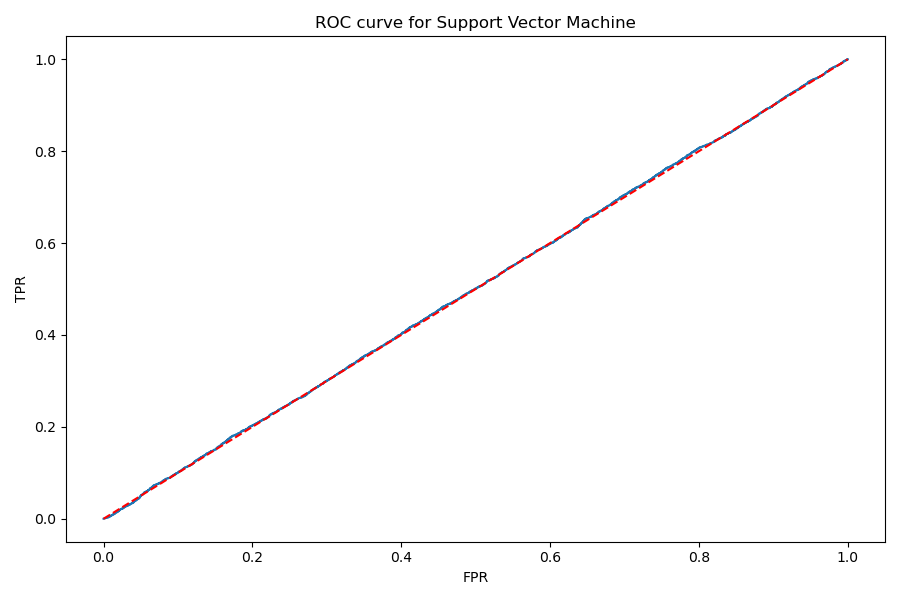
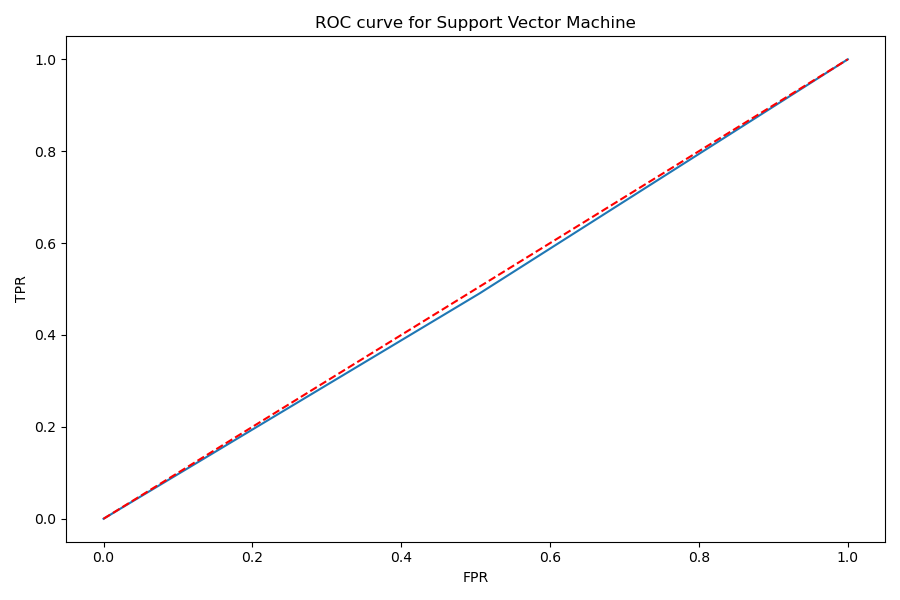
feature selection verbessert, SVM + hyperparameter

diff --git a/FoDS_Project_code.py b/FoDS_Project_code.py
@@ -19,8 +19,10 @@ from sklearn import svm
 
 from sklearn.svm import LinearSVC
 from sklearn.calibration import CalibratedClassifierCV
-
-
+from sklearn.linear_model import LassoCV
+from sklearn.svm import SVC
+from sklearn.model_selection import RandomizedSearchCV
+from scipy.stats import uniform
 
 import warnings
 warnings.filterwarnings("ignore")
@@ -82,27 +84,18 @@ X_train, X_test, y_train, y_test = (
     np.array(y_test),
 )
 
-## feature selection with Lasso --> alles 0, weil kein feature wichtig ist --> nicht richtig gemacht, nochmals machen mit dem Tutorial von
-# Woche 10!!! --> hier werden nur die coef angeschaut und die feature selection nicht wirklich angewendet!
+## feature selection with Lasso --> alles 0, weil kein feature wichtig ist
+lasso_cv = LassoCV(cv=5, random_state=0)
+lasso_cv.fit(X_train_scaled, y_train)
 
-def get_scores(model, X_train, y_train, X_test, y_test):
-    y_pred_test = model.predict(X_test)
-    y_pred_train = model.predict(X_train)
-    # evaluation
-    r2_test = r2_score(y_test, y_pred_test)
-    rmse_test = root_mean_squared_error(y_test, y_pred_test)
+print("Optimal alpha:", lasso_cv.alpha_)
+print("Coefficients:", lasso_cv.coef_)
 
-    r2_train = r2_score(y_train, y_pred_train)
-    rmse_train = root_mean_squared_error(y_train, y_pred_train)
+selected_mask = lasso_cv.coef_ != 0
+selected_features = X_train_scaled.columns[selected_mask]
+X_train_selected = X_train_scaled[selected_features]
+X_test_selected = X_test_scaled[selected_features]
 
-    print('Training set score: R2 score: {:.3f}, RMSE: {:.3f}'.format(r2_train, rmse_train))
-    print('Test set score: R2 score: {:.3f}, RMSE: {:.3f}'.format(r2_test, rmse_test))
-
-Lasso = Lasso(alpha=0.1)
-Lasso.fit(X_train_scaled, y_train) 
-# get scores
-get_scores(Lasso, X_train_scaled, y_train, X_test_scaled, y_test)
-print(Lasso.coef_)
 
 ### optional sampling ###
 
@@ -246,15 +239,43 @@ print(f"ROC AUC: {roc_auc:.3f}")
 
 
 
-"""
+
 ### Model 4: support vector machine ###
+## Hyperparameter tuning for SVM ##
+"""
+svc = SVC()
+
+param_distributions = {'C': uniform(0.1, 100),'gamma': uniform(0.0001, 1),'kernel': ['rbf', 'linear']}
+random_search = RandomizedSearchCV(
+    estimator=svc,
+    param_distributions=param_distributions,
+    n_iter=20,          # Number of parameter settings to try
+    scoring='accuracy', 
+    cv=5,               
+    verbose=2,
+    random_state=42,
+    n_jobs=-1           # Use all available cores
+)
+
+random_search.fit(X_train_selected, y_train)
+
+print("Best parameters found: ", random_search.best_params_) #Best parameters found:  {'C': np.float64(37.55401188473625), 'gamma': np.float64(0.9508143064099162), 'kernel': 'rbf'}
+"""
+
+## Support Vector Machine Model ##
 #function for evaluation metrics
-clf_SVM = svm.SVC(probability=True, kernel = 'linear')
-clf_SVM.fit(X_train, y_train)
+clf_SVM = svm.SVC(
+    C=37.55401188473625,
+    gamma=0.9508143064099162,
+    kernel='rbf',
+    probability=True,
+    random_state=42)
+
+clf_SVM.fit(X_train_selected, y_train)
 
 # Predictions
-y_test_pred = clf_SVM.predict(X_test)
-y_test_predict_proba = clf_SVM.predict_proba(X_test)[:, 1] 
+y_test_pred = clf_SVM.predict(X_test_selected)
+y_test_predict_proba = clf_SVM.predict_proba(X_test_selected)[:, 1] 
 
 # Confusion matrix
 cm = confusion_matrix(y_test, y_test_pred)
@@ -289,52 +310,3 @@ print(f"Recall: {recall:.3f}")
 print(f"Specificity: {specificity:.3f}")
 print(f"F1 Score: {f1:.3f}")
 print(f"ROC AUC: {roc_auc:.3f}")
-"""
-
-### Model 4: support vector machine ###
-#function for evaluation metrics
-base_svm = LinearSVC()
-clf_SVM = CalibratedClassifierCV(base_svm, cv=5)
-print("Starting calibrated LinearSVC training...")
-clf_SVM.fit(X_train, y_train)
-print("Finished training.")
-
-
-# Predictions
-y_test_pred = clf_SVM.predict(X_test)
-y_test_predict_proba = clf_SVM.predict_proba(X_test)[:, 1] 
-
-# Confusion matrix
-cm = confusion_matrix(y_test, y_test_pred)
-print("Confusion matrix: (Support Vector Machine)\n", cm)
-
-# Evaluation metrics
-accuracy = accuracy_score(y_test, y_test_pred)
-precision = precision_score(y_test, y_test_pred)
-recall = recall_score(y_test, y_test_pred)
-f1 = f1_score(y_test, y_test_pred)
-tn, fp, fn, tp = cm.ravel()
-specificity = tn / (tn + fp)
-
-# ROC AUC
-fp_rates, tp_rates, _ = roc_curve(y_test, y_test_predict_proba)
-roc_auc = auc(fp_rates, tp_rates)
-
-# ROC curve
-plt.figure(figsize = (9, 6))
-plt.plot(fp_rates, tp_rates, label=f'ROC curve AUC = {roc_auc:.2f})')
-plt.plot([0, 1], [0, 1], linestyle='--', color='red')
-plt.xlabel("FPR")  
-plt.ylabel("TPR")  
-plt.title("ROC curve for Support Vector Machine")  
-plt.tight_layout()
-plt.savefig('roc_curve_SVM.png')
-
-# Print the results
-print(f"Accuracy: {accuracy:.3f}")
-print(f"Precision: {precision:.3f}")
-print(f"Recall: {recall:.3f}")
-print(f"Specificity: {specificity:.3f}")
-print(f"F1 Score: {f1:.3f}")
-print(f"ROC AUC: {roc_auc:.3f}")
-
